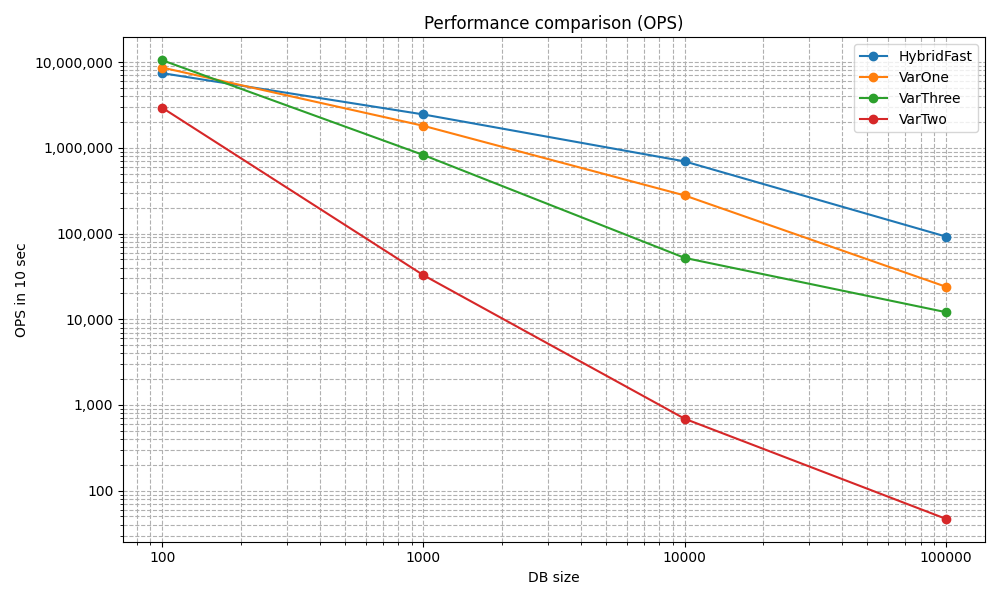
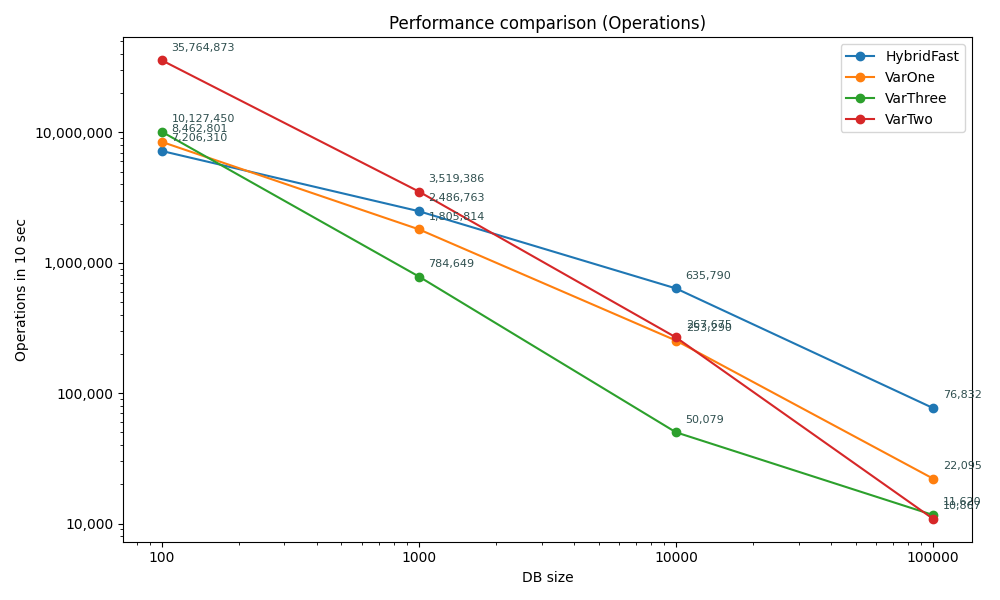
final code

diff --git a/plot.py b/plot.py
@@ -40,6 +40,18 @@ for v in variants:
             ys.append(data[(v, s)][0])
     if xs:
         plt.plot(xs, ys, marker='o', label=v)
+        for x, y in zip(xs, ys):
+            label = '{:,.0f}'.format(y)
+            
+            plt.annotate(
+                label,
+                (x, y),
+                textcoords="offset points",
+                xytext=(7, 7),
+                ha='left',
+                fontsize=8,
+                color='darkslategray'
+            )
 
 plt.xscale("log")
 plt.yscale("log")
@@ -50,9 +62,9 @@ plt.xticks(sizes)
 ax.yaxis.set_major_formatter(ticker.FuncFormatter(lambda y, _: '{:,.0f}'.format(y)))
 ax.yaxis.set_minor_formatter(ticker.NullFormatter())
 plt.xlabel("DB size")
-plt.ylabel("OPS in 10 sec")
-plt.title("Performance comparison (OPS)")
-plt.grid(True, which="both", ls="--")
+plt.ylabel("Operations in 10 sec")
+plt.title("Performance comparison (Operations)")
+plt.grid(False)
 plt.legend()
 plt.tight_layout()
 plt.savefig("ops_graph.png")
@@ -68,6 +80,18 @@ for v in variants:
             ys.append(data[(v, s)][1])
     if xs:
         plt.plot(xs, ys, marker='o', label=v)
+        for x, y in zip(xs, ys):
+            label = '{:,.0f}'.format(y)
+            
+            plt.annotate(
+                label,
+                (x, y),
+                textcoords="offset points",
+                xytext=(7, 7),
+                ha='left',
+                fontsize=8,
+                color='darkslategray'
+            )
 
 plt.xscale("log")
 ax = plt.gca()
@@ -80,8 +104,54 @@ ax.yaxis.set_major_formatter(ticker.FuncFormatter(lambda y, _: '{:,.1f}'.format(
 plt.xlabel("DB size")
 plt.ylabel("Memory usage")
 plt.title("Memory comparison")
-plt.grid(True, which="both", ls="--")
+plt.grid(False)
 plt.legend()
 plt.tight_layout()
 plt.savefig("memory_graph.png")
 print("Memory graph saved as memory_graph.png")
+
+plt.figure(figsize=(10, 6))
+
+for v in variants:
+    xs = []
+    ys = []
+    for s in sizes:
+        if (v, s) in data:
+            ops, mem = data[(v, s)]
+            if mem > 0:
+                xs.append(s)
+                ys.append(ops / mem)
+    if xs:
+        plt.plot(xs, ys, marker='o', label=v)
+        for x, y in zip(xs, ys):
+            label = '{:,.0f}'.format(y)
+            
+            plt.annotate(
+                label,
+                (x, y),
+                textcoords="offset points",
+                xytext=(7, 7),
+                ha='left',
+                fontsize=8,
+                color='darkslategray'
+            )
+
+plt.xscale("log")
+plt.yscale("log")
+
+ax = plt.gca()
+
+ax.xaxis.set_major_formatter(ticker.ScalarFormatter())
+ax.xaxis.set_minor_formatter(ticker.NullFormatter())
+plt.xticks(sizes)
+
+ax.yaxis.set_major_formatter(ticker.ScalarFormatter())
+
+plt.xlabel("DB size (Log Scale)")
+plt.ylabel("Operations / Memory (Log Scale)")
+plt.title("Efficiency comparison (OPS / Memory)")
+plt.grid(False)
+plt.legend()
+plt.tight_layout()
+plt.savefig("efficiency_graph.png")
+print("Efficiency graph saved as efficiency_graph.png")

diff --git a/VarTwo.java b/VarTwo.java
@@ -4,27 +4,10 @@ import java.util.List;
 
 public class VarTwo {
     private ArrayList<Student> students;
+    private List<GroupData> groups = new ArrayList<>();
 
     public VarTwo(List<Student> students) {
         this.students = new ArrayList<>(students);
-    }
-
-    public List<Student> firstHundred() {
-        students.sort(Comparator.comparingDouble(Student::getRating).reversed());
-        return students.subList(0, Math.min(100, students.size()));
-    }
-
-    public void findByEmail(String email, double newRating) {
-        for (Student student : students) {
-            if (student.getEmail().equals(email)) {
-                student.setRating(newRating);
-                return;
-            }
-        }
-    }
-
-    public String biggestGroupAverage() {
-        List<GroupData> groups = new ArrayList<>();
         for(Student student: students) {
             boolean found = false;
             for (GroupData g : groups) {
@@ -38,13 +21,41 @@ public class VarTwo {
                 groups.add(new GroupData(student.getGroup(), student.getRating()));
             }
         }
+    }
 
+    public List<Student> firstHundred() {
+        students.sort(Comparator.comparingDouble(Student::getRating).reversed());
+        return students.subList(0, Math.min(100, students.size()));
+    }
+
+    public void findByEmail(String email, double newRating) {
+        for (Student student : students) {
+            if (student.getEmail().equals(email)) {
+
+                double oldRating = student.getRating();
+                student.setRating(newRating);
+
+                for (GroupData group : groups) {
+                    if (group.name.equals(student.getGroup())) {
+                        group.sum -= oldRating;
+                        group.sum += newRating;
+                        break;
+                    }
+                }
+                break;
+            }
+        }
+    }
+
+
+    public String biggestGroupAverage() {
         GroupData bestGroup = null;
         double bestAverage = 0;
         for(GroupData group: groups) {
-            if(group.average() > bestAverage) {
+            double avg = group.average();
+            if (avg > bestAverage) {
+                bestAverage = avg;
                 bestGroup = group;
-                bestAverage = group.average();
             }
         }
         if(bestGroup!=null) {

diff --git a/CountingSort.java b/CountingSort.java
@@ -3,9 +3,9 @@ import java.io.IOException;
 import java.util.Arrays;
 import java.util.List;
 
-public class RadixSort {
+public class CountingSort {
     public static List<Student> sort(List<Student> list) {
-        int maxKey = 1231; // 12*100 + 31
+        int maxKey = 1231;
         int[] count = new int[maxKey + 1];
         Student[] output = new Student[list.size()];
 
@@ -30,11 +30,11 @@ public class RadixSort {
     public static void save(List<Student> students, String filename) {
         try(FileWriter writer = new FileWriter(filename)) {
             writer.write("name,surname,email,birthYear,birthMonth,birthDay,group,rating,phone\n");
-            for(Student s: students){
+            for(Student student: students){
                 writer.write(String.format("%s,%s,%s,%d,%d,%d,%s,%.6f,%s\n",
-                        s.getName(), s.getSurname(), s.getEmail(), s.getBirthYear(),
-                        s.getBirthMonth(), s.getBirthDay(), s.getGroup(),
-                        s.getRating(), s.getPhoneNumber()));
+                        student.getName(), student.getSurname(), student.getEmail(), student.getBirthYear(),
+                        student.getBirthMonth(), student.getBirthDay(), student.getGroup(),
+                        student.getRating(), student.getPhoneNumber()));
             }
         } catch(IOException e){ throw new RuntimeException(e); }
     }

diff --git a/VarOne.java b/VarOne.java
@@ -25,11 +25,11 @@ public class VarOne {
 
     public List<Student> firstHundred() {
         PriorityQueue<Student> heap = new PriorityQueue<>(100, Comparator.comparingDouble(Student::getRating));
-        for (Student s : studentMap.values()) {
-            if (heap.size() < 100) heap.offer(s);
-            else if (s.getRating() > heap.peek().getRating()) {
+        for (Student student : studentMap.values()) {
+            if (heap.size() < 100) heap.offer(student);
+            else if (student.getRating() > heap.peek().getRating()) {
                 heap.poll();
-                heap.offer(s);
+                heap.offer(student);
             }
         }
         List<Student> top = new ArrayList<>(heap);
@@ -38,13 +38,15 @@ public class VarOne {
     }
 
     public void findByEmail(String email, double newRating) {
-        Student s = studentMap.get(email);
-        if (s != null) {
-            s.setRating(newRating);
+        Student student = studentMap.get(email);
+        if (student != null) {
+            double[] data = studentTable.get(student.getGroup());
+            data[0] += (newRating - student.getRating());
+            student.setRating(newRating);
         }
     }
     
-    public String biggestGroupAverage(List<Student> students) {
+    public String biggestGroupAverage() {
         String bestGroup = null;
         double bestAverage = 0;
 

diff --git a/StandartSort.java b/StandartSort.java
@@ -14,11 +14,11 @@ public class StandartSort {
     public static void save(List<Student> students, String filename) {
         try(FileWriter writer = new FileWriter(filename)) {
             writer.write("name,surname,email,birthYear,birthMonth,birthDay,group,rating,phone\n");
-            for(Student s: students){
+            for(Student student: students){
                 writer.write(String.format("%s,%s,%s,%d,%d,%d,%s,%.6f,%s\n",
-                        s.getName(), s.getSurname(), s.getEmail(), s.getBirthYear(),
-                        s.getBirthMonth(), s.getBirthDay(), s.getGroup(),
-                        s.getRating(), s.getPhoneNumber()));
+                        student.getName(), student.getSurname(), student.getEmail(), student.getBirthYear(),
+                        student.getBirthMonth(), student.getBirthDay(), student.getGroup(),
+                        student.getRating(), student.getPhoneNumber()));
             }
         } catch(IOException e){ throw new RuntimeException(e); }
     }

diff --git a/DemoSecond.java b/DemoSecond.java
@@ -120,7 +120,7 @@ public static void main(String[] args) throws IOException {
                 else if (var instanceof VarThree v) v.findByEmail(email, newRating);
                 else if (var instanceof HybridFast v) v.findByEmail(email, newRating);
             } else {
-                if (var instanceof VarOne v) v.biggestGroupAverage(null);
+                if (var instanceof VarOne v) v.biggestGroupAverage();
                 else if (var instanceof VarTwo v) v.biggestGroupAverage();
                 else if (var instanceof VarThree v) v.biggestGroupAverage();
                 else if (var instanceof HybridFast v) v.biggestGroupAverage();

diff --git a/Demo.java b/Demo.java
@@ -17,9 +17,9 @@ public class Demo {
         long timeStandard = end1 - start1;
 
         long start2 = System.currentTimeMillis();
-        List<Student> radixSorted = RadixSort.sort(list2);
+        List<Student> radixSorted = CountingSort.sort(list2);
         long end2 = System.currentTimeMillis();
-        RadixSort.save(radixSorted, "radix_sorted_students.csv");
+        CountingSort.save(radixSorted, "radix_sorted_students.csv");
         long timeRadix = end2 - start2;
 
         System.out.println("StandartSort time = " + timeStandard + " ms");

diff --git a/VarThree.java b/VarThree.java
@@ -10,7 +10,7 @@ public class VarThree {
 
     public VarThree(List<Student> studentList) {
         this.students = new TreeSet<>(Comparator.comparingDouble(Student::getRating).reversed().thenComparing(Student::getEmail));
-        for(Student student : students) {
+        for(Student student : studentList) {
             students.add(student);
             if(!studentTable.containsKey(student.getGroup())) {
                 studentTable.put(student.getGroup(), new double[]{student.getRating(), 1});
